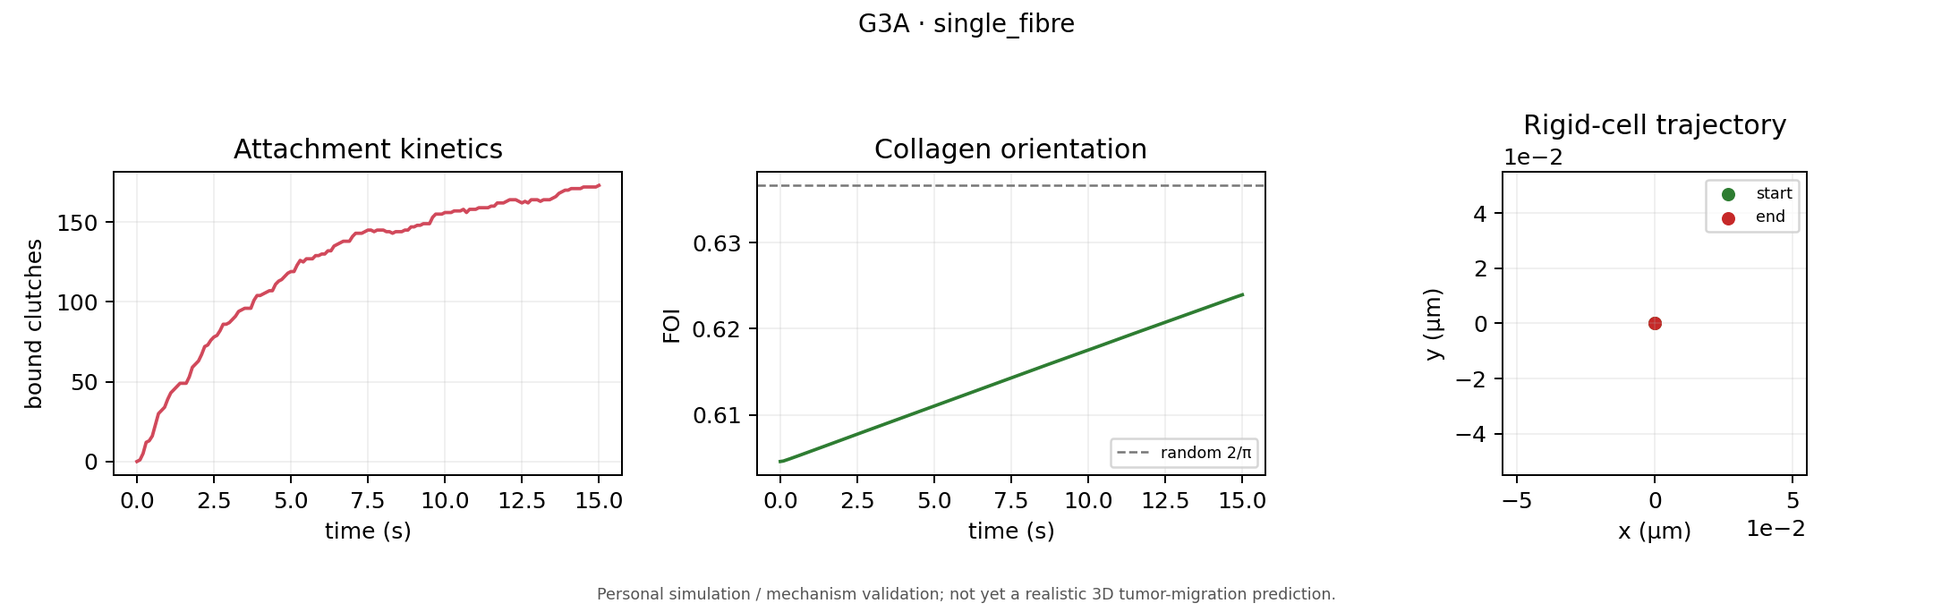
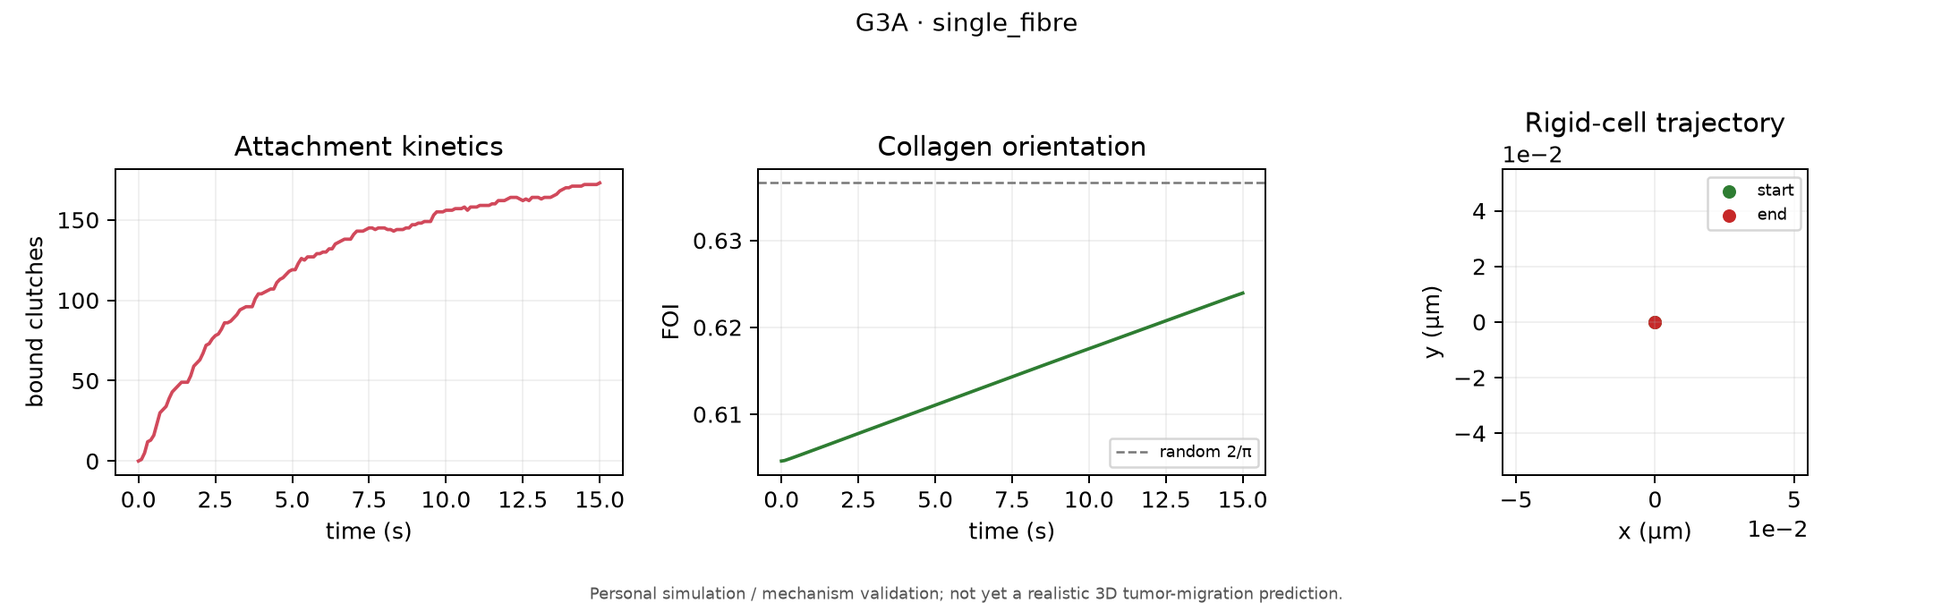
docs: align G3 labs with conservative contact

diff --git a/docs/model-notebook-data.js b/docs/model-notebook-data.js
@@ -16,7 +16,8 @@ const PAPERS={
   adebowale:{title:'Adebowale et al. (2021) · stress relaxation and migration',href:'https://doi.org/10.1038/s41563-021-00981-w'},
   carey:{title:'Carey et al. (2016) · local ECM alignment directs protrusions and migration',href:'https://doi.org/10.1039/C6IB00030D'},
   nam:{title:'Nam et al. (2016) · viscoplastic matrix remodeling by cells',href:'https://doi.org/10.1016/j.bpj.2016.10.002'},
-  saras:{title:'Saraswathibhatla et al. (2025) · collagen alignment and breast-cancer invasion',href:'https://doi.org/10.1101/2025.01.31.635980'}
+  saras:{title:'Saraswathibhatla et al. (2025) · collagen alignment and breast-cancer invasion',href:'https://doi.org/10.1101/2025.01.31.635980'},
+  runser:{title:'Runser, Vetter & Iber (2024) · signed-distance cell contact mechanics',href:'https://doi.org/10.1038/s43588-024-00620-9'}
 };
 const paper=(key,support,boundary)=>({...PAPERS[key],support,boundary});
 
@@ -361,8 +362,13 @@ const G3A_EQUATIONS=[
   {title:'Elastic bead–spring collagen and overdamped motion',equations:[
     {name:'Axial bond energy',tex:T`\[U_s=\frac12\kappa_s\sum_{(i,j)}\left(\|\mathbf r_j-\mathbf r_i\|-\ell_0\right)^2\]`,explain:'Every visible collagen line is a chain of 1 µm-spaced beads joined by Hookean axial bonds.'},
     {name:'Bending energy',tex:T`\[U_b=\frac12\kappa_b\sum_{(i,j,k)}(\theta_{ijk}-\theta_0)^2\]`,explain:'The angle penalty resists changes in fibre curvature; the current minimal fixture uses a straight rest angle.'},
-    {name:'Overdamped bead balance',tex:T`\[\zeta_b\dot{\mathbf r}_i=\mathbf F_i^{stretch}+\mathbf F_i^{bend}+\mathbf F_i^{clutch}\]`,explain:'Collagen bead velocity follows the instantaneous elastic plus clutch force. There is no SLS element and no inertia.',key:true},
+    {name:'Overdamped bead balance',tex:T`\[\zeta_b\dot{\mathbf r}_i=\mathbf F_i^{stretch}+\mathbf F_i^{bend}+\mathbf F_i^{clutch}+\mathbf F_i^{contact}\]`,explain:'Collagen bead velocity follows the instantaneous elastic, clutch and one-sided cell-contact forces. There is no SLS element and no inertia.',key:true},
     {name:'Explicit substep',tex:T`\[\mathbf r_i^{n+1}=\mathbf r_i^n+\frac{\Delta t_{ECM}}{\zeta_b}\mathbf F_i^n,\qquad \Delta t_{ECM}=\Delta t/N_{sub}\]`,explain:'Two ECM substeps satisfy the stated explicit bead-chain stability bound; fixed fixture endpoints are then restored.'}
+  ]},
+  {title:'Conservative one-sided cell–collagen contact',equations:[
+    {name:'Penetration depth',tex:T`\[d_i=\|\mathbf r_i-\mathbf r_c\|,\qquad \delta_i=\max(0,R-d_i)\]`,explain:'Contact activates only when a zero-radius collagen material node enters the nominal rigid circle.'},
+    {name:'Contact potential and bead force',tex:T`\[U_i^{contact}=\frac12k_{contact}\delta_i^2,\qquad \mathbf F_i^{contact}=k_{contact}\delta_i\frac{\mathbf r_i-\mathbf r_c}{d_i}\]`,explain:'The negative gradient of a one-sided harmonic potential pushes an overlapping bead radially outward.',key:true},
+    {name:'Cell contact reaction',tex:T`\[\mathbf F_{cell}^{contact}=-\sum_i\mathbf F_i^{contact},\qquad \tau_{cell}^{contact}=0\]`,explain:'The rigid cell receives the exact opposite force. Ideal central contact produces zero torque about a circular cell center.',key:true}
   ]},
   {title:'Spatial material-point clutch',equations:[
     {name:'Bound collagen material point',tex:T`\[\mathbf p_c(t)=(1-\alpha_c)\mathbf r_{i_c}(t)+\alpha_c\mathbf r_{j_c}(t)\]`,explain:'On binding, a clutch stores fibre ID, segment ID and α. Those material identifiers remain fixed until rupture.',key:true},
@@ -392,10 +398,10 @@ NOTEBOOK_MODELS['g3-a']={
   simulation:{src:'g3-demo.html?stage=g3a',note:'The animation shows one fixed cell, one bead chain, active sector, bound material points and clutch spokes. It is a 15 s mechanism test, not migration.'},
   source:REPO+'src/g3/mechanics.py',equationGroups:G3A_EQUATIONS,
   algorithm:['Build a 40 µm collagen fibre from 41 beads and fix its two endpoints.','Place a rigid 10 µm-radius cell at the origin and prescribe one protrusion only for this diagnostic stage.','Assign the 200-clutch pool to that sector and propose binding with the continuous nearest-segment test.','For every bound clutch, reconstruct its evolving material point from the stored segment and α.','Advance actin displacement by the motor force–velocity law and break clutches with the Bell hazard.','Project every vector point force onto nearby beads of the same fibre with normalized Gaussian weights and a moment correction.','Advance elastic collagen beads by the overdamped equation while keeping the cell fixed.','Check material identity, no-fibre traction, force/torque conservation, rotation covariance and pull-induced FOI change.'],
-  papers:[paper('lee','Supports a bead–spring representation of collagen fibres and crosslinked network mechanics.','The present one-fibre fixture or its clutch parameters as a tissue fit.'),paper('bell','Supports exponential force-dependent slip-bond rupture.','Catch-bond integrin behavior or this exact force scale for every cell type.'),paper('adebowale','Provides the active one-module motor/clutch counts, rates, force, stiffness and actin-speed scales used in G3.','A calibrated breast-tumor-cell collagen model; the paper studied a different experimental system.'),paper('saras','Provides the axial/bending bead-fibre parameter scale and 1 µm discretization used here.','That this few-fibre 2D fixture reproduces a 3D tumor microenvironment.')],
-  results:[{name:'Material-point test',value:'A clutch stores (fiber_id, segment_id, α) until Bell unbinding and reconstructs that material point as beads move.'},{name:'15 s demonstration',value:'FOI 0.6046 → 0.6239; maximum bead displacement 0.395 µm; maximum 173/200 bound clutches.'},{name:'Conservation',value:'Saved force/torque residuals are below 4×10⁻¹⁶ / 9×10⁻¹⁸ relative.'},{name:'Cell state',value:'Exactly fixed; the trajectory panel should remain at the origin.'}],
-  limitation:{heading:'Current limitation · G3A deliberately has no emergent direction',text:'The single active sector is prescribed only to test spatial mechanics. It does not show a cell choosing a collagen-guided path, and a long pull eventually reaches the rigid-cell overlap guard.',items:['One straight fibre and fixed endpoints.','No crosslinks, excluded-volume contact, pore traversal or 3D topology.','Cell fixed; no competing protrusions.','Elastic bonds only; no SLS or plasticity.'],leadsTo:'G3B removes the prescribed diagnostic sector and lets 24 initially unbiased surface sectors compete using only local collagen geometry and traction success.'},
-  talk:{script:'“G3A is not a migration claim. I prescribe one protrusion only as a unit test, bind every clutch to a continuous segment coordinate, and then spread its vector force locally along that same bead fibre. The force and first moment are conserved. This proves the attachment mechanics before I ask collagen to choose a direction.”',assumptions:['Rigid circular cell with radius 10 µm.','One 40 µm fibre and a 2 µm capture/projection scale.','Tension-only linear clutches with Bell slip-bond rupture.'],nextChecks:['Add conservative cell–collagen contact before long random-fixture runs.','Test resolution and Gaussian-width convergence.','Compare clutch/collagen deformation with spatial experimental measurements.']}
+  papers:[paper('lee','Supports a bead–spring representation of collagen fibres and crosslinked network mechanics.','The present one-fibre fixture or its clutch parameters as a tissue fit.'),paper('bell','Supports exponential force-dependent slip-bond rupture.','Catch-bond integrin behavior or this exact force scale for every cell type.'),paper('adebowale','Provides the active one-module motor/clutch counts, rates, force, stiffness and actin-speed scales used in G3.','A calibrated breast-tumor-cell collagen model; the paper studied a different experimental system.'),paper('saras','Provides the axial/bending bead-fibre parameter scale and 1 µm discretization used here.','That this few-fibre 2D fixture reproduces a 3D tumor microenvironment.'),paper('runser','Supports the repulsive signed-distance branch used for the conservative contact form.','The provisional 4×10⁻³ N/m stiffness, zero bead radius or a deformable cell cortex.')],
+  results:[{name:'Material-point test',value:'A clutch stores (fiber_id, segment_id, α) until Bell unbinding and reconstructs that material point as beads move.'},{name:'15 s demonstration',value:'FOI 0.6046 → 0.6239; maximum bead displacement 0.395 µm; maximum 173/200 bound clutches.'},{name:'Conservation',value:'Saved clutch force/torque residuals are below 4×10⁻¹⁶ / 9×10⁻¹⁸ relative; contact action–reaction is also unit-tested.'},{name:'Cell state',value:'Exactly fixed; the trajectory panel should remain at the origin.'}],
+  limitation:{heading:'Current limitation · G3A deliberately has no emergent direction',text:'The single active sector is prescribed only to test spatial mechanics. It does not show a cell choosing a collagen-guided path. Conservative contact is now active, but is frictionless, non-adhesive and uses zero-radius bead nodes.',items:['One straight fibre and fixed endpoints.','No crosslinks, pore traversal or 3D topology.','Cell fixed; no competing protrusions.','Elastic bonds only; no SLS or plasticity.'],leadsTo:'G3B removes the prescribed diagnostic sector and lets 24 initially unbiased surface sectors compete using only local collagen geometry and traction success.'},
+  talk:{script:'“G3A is not a migration claim. I prescribe one protrusion only as a unit test, bind every clutch to a continuous segment coordinate, and then spread its vector force locally along that same bead fibre. The force and first moment are conserved. A separate conservative contact potential prevents the rigid cell from being mechanically permeable. This proves the attachment mechanics before I ask collagen to choose a direction.”',assumptions:['Rigid circular cell with radius 10 µm.','One 40 µm fibre and a 2 µm capture/projection scale.','Tension-only linear clutches with Bell slip-bond rupture.','Frictionless one-sided contact with provisional stiffness equal to the active fibre spring scale.'],nextChecks:['Complete the contact-stiffness sensitivity and full G3B recalibration.','Test resolution and Gaussian-width convergence.','Compare clutch/collagen deformation with spatial experimental measurements.']}
 };
 
 NOTEBOOK_MODELS['g3-b']={
@@ -426,9 +432,9 @@ NOTEBOOK_MODELS['g3-b']={
   ],
   algorithm:['Initialize two active sectors by uniform sampling from 24 directions; do not define left/right or +x.','At each geometry update, compute continuous collagen-segment midpoints and tangents around every cell-surface probe.','Compute availability, nematic alignment and the combined geometry score for all sectors.','Assign the shared clutch pool to the current active sectors and run the inherited G3A attachment/loading/rupture mechanics.','Smooth each active sector’s bound-fraction × traction success.','Sample protrusion loss from the geometry- and traction-dependent hazard; sample replacement from the geometry score softmax.','Keep the cell center and angle fixed while collagen beads deform overdamped.','Compare balanced, isotropic, aligned, 30°-rotated aligned, feedback-off and no-fibre ensembles.'],
   papers:[paper('carey','Directly motivates the causal hypothesis that local collagen alignment biases protrusion frequency, length/persistence and migration through FAK/Rac1 signaling.','The exact exponential hazard, 24 sectors or β values used here.'),paper('adebowale','Supports coupling filopodia-like motor-clutch success to migration behavior and supplies the clutch scales.','That collagen guidance in this G3 breast-tumor-cell abstraction has been quantitatively fitted.'),paper('lee','Supports representing local collagen direction with bead-connected fibre segments.','This few-fibre aligned fixture as a realistic collagen density or pore distribution.'),paper('saras','Supports breast-cancer/collagen alignment as a relevant invasion mechanism and the chosen elastic fibre scale.','The present fixed-cell sector law or its provisional feedback parameters.')],
-  results:[{name:'Aligned collagen',value:'20-seed calibration mean nematic guidance 0.726; bootstrap 95% CI 0.626–0.819.'},{name:'No hidden sign preference',value:'Aligned trials split 55/45 between the two equivalent directions of the collagen axis.'},{name:'Rotation control',value:'Rotating collagen by 30° rotated the inferred protrusion axis with 3.03° covariance error.'},{name:'Feedback ablation',value:'Mean guidance fell from 0.726 to −0.033 when geometry/traction feedback was disabled.'},{name:'Important failed gate',value:'7/20 isotropic-random runs entered rigid-cell geometry overlap; the biased 13-run valid subset must not be interpreted.'}],
-  limitation:{heading:'Current limitation · the aligned mechanism works, but G3B is not yet cleared',text:'The positive aligned and rotation controls show the intended collagen-guidance mechanism. However, random local geometries can be pulled through the rigid cell because G3 has no cell–collagen excluded-volume force. That structural failure blocks final validation.',items:['Isotropic all-runs-valid gate failed: 13/20 valid.','Residual polar-ratio <0.1 is a preregistered 100-seed gate and is not established by 20 calibration seeds.','Only eight synthetic 2D fibres; no realistic density, pores, crosslinks or 3D topology.','Feedback lifetime and β values are provisional assumptions.'],leadsTo:'First add and calibrate an explicit conservative cell–collagen contact law (or deliberately restrict the fixture), rerun all G3B calibration controls, and only then treat G3C as a validation candidate.'},
-  talk:{script:'“G3B removes the old ψ=0.65. I start with two uniformly chosen sectors. Each sector measures nearby collagen availability and the squared tangent alignment, then clutch binding and force reinforce persistence. The output axis follows aligned collagen and rotates with a rotated matrix, while feedback ablation removes the effect. But random fibres can penetrate the rigid cell, so I stop at a failed calibration gate rather than claim validated migration.”',assumptions:['Two active protrusions among 24 sectors.','Geometry and traction enter an exponential lifetime rule with βG=βq=2.','Eight-fibre 2D fixtures isolate direction control but do not reproduce collagen concentration.'],nextChecks:['Implement conservative cell–collagen excluded volume as a separately documented force.','Rerun seeds 0–19 before opening untouched seeds 1000–1099.','Sweep only preregistered feedback lifetime/strength parameters.','Later compare predicted protrusion-angle distributions to Carey-type imaging.']}
+  results:[{name:'Aligned collagen · preserved contact-free calibration',value:'20-seed mean nematic guidance 0.726; bootstrap 95% CI 0.626–0.819.'},{name:'No hidden sign preference',value:'Aligned trials split 55/45 between the two equivalent directions of the collagen axis.'},{name:'Rotation control',value:'Rotating collagen by 30° rotated the inferred protrusion axis with 3.03° covariance error.'},{name:'Feedback ablation',value:'Mean guidance fell from 0.726 to −0.033 when geometry/traction feedback was disabled.'},{name:'Preserved failed gate',value:'The contact-free run had 7/20 isotropic overlaps; its 13-run valid subset remains uninterpretable.'},{name:'New contact diagnostic',value:'Previously failing isotropic seed 2 completed 60 s with contact enabled; maximum penetration 0.00375 µm. This is not the full recalibration.'}],
+  limitation:{heading:'Current limitation · contact is implemented, but G3B is not yet recalibrated',text:'The aligned controls support the intended guidance mechanism and the conservative contact law fixes the targeted 60 s seed-2 diagnostic. The original contact-free calibration remains a preserved negative result; all six conditions must be rerun from clean checkpoints before the stage can pass.',items:['The active contact-enabled configuration has not completed the full 20-seed × six-condition 600 s recalibration.','Residual polar-ratio <0.1 is a preregistered 100-seed gate and is not established by 20 calibration seeds.','Only eight synthetic 2D fibres; no realistic density, pores, crosslinks or 3D topology.','Contact stiffness, feedback lifetime and β values are provisional assumptions.'],leadsTo:'Run phase-locked contact-enabled calibration batches in a new output directory, include the 2/4/8×10⁻³ N/m contact-stiffness sensitivity, and open final validation only if every gate passes.'},
+  talk:{script:'“G3B removes the old polarization_probability=0.65. I start with two uniformly chosen sectors. Each sector measures nearby collagen availability and squared tangent alignment, then clutch binding and force reinforce persistence. The preserved contact-free data show aligned guidance and rotation covariance, but also seven isotropic overlaps. I have now added a conservative repulsive contact law; the targeted failing seed passes 60 seconds, but I still require the complete fresh calibration before claiming the stage is cleared.”',assumptions:['Two active protrusions among 24 sectors.','Geometry and traction enter an exponential lifetime rule with βG=βq=2.','Eight-fibre 2D fixtures isolate direction control but do not reproduce collagen concentration.','Contact is frictionless/non-adhesive and its stiffness is provisional.'],nextChecks:['Run all six contact-enabled calibration conditions from clean phase-locked batches.','Complete the contact-stiffness sensitivity before freezing configuration.','Open seeds 1000–1099 only after every calibration gate passes.','Later compare predicted protrusion-angle distributions to Carey-type imaging.']}
 };
 
 NOTEBOOK_MODELS['g3-c']={
@@ -454,6 +460,6 @@ NOTEBOOK_MODELS['g3-c']={
   algorithm:['Run the complete G3B unbiased sector and spatial clutch loop.','Sum the equal-and-opposite reaction vectors and their moments about the current cell center.','Divide by translational and rotational drag to obtain instantaneous velocity and angular velocity.','Update the cell center and body angle in 2D; move every sector and motor-side anchor with the rigid body.','Recompute nearby collagen geometry and attachment locations as cell and fibres evolve.','Record cell path, body rotation, traction, torque, FOI and conservation residuals.','Test no-fibre, symmetric/asymmetric, mirrored, aligned/rotated and drag controls.','Do not start formal G3C validation until every G3B calibration gate passes.'],
   papers:[paper('carey','Supports the idea that aligned collagen guides protrusion dynamics and migration direction, motivating the G3B→G3C causal chain.','This rigid-body reaction law as a quantitative model of whole-cell motility.'),paper('bell','Supports the inherited stochastic force-dependent clutch detachment.','Cell translation/rotation drag or realistic integrin kinetics in 3D collagen.'),paper('adebowale','Supports motor-clutch-mediated filopodial force generation and supplies the microscopic parameter scale.','The provisional whole-cell drag or the current tiny G3C speed.'),paper('saras','Supports coupling breast-cancer movement and collagen alignment as a mechanistic research question.','Formal validation of this 2D few-fibre trajectory model.')],
   results:[{name:'Asymmetric smoke run',value:'30 s net displacement 0.00187 µm and final rotation 6.68×10⁻⁵ rad; nonzero but intentionally not display-amplified.'},{name:'No prescribed direction',value:'No v₀ self-propulsion, fixed +x force, one-axis constraint or polarity_probability=0.65 exists in src/g3.'},{name:'Formal evidence status',value:'G3C campaign is halted because upstream G3B isotropic geometry overlap has not been resolved.'},{name:'Retained audit data',value:'173 premature partial G3C calibration records are stored but explicitly excluded from evidence.'}],
-  limitation:{heading:'Current limitation · reaction mechanics exist, but migration is not validated',text:'G3C demonstrates that spatial clutches can generate a 2D reaction force and torque. Its present displacement is tiny, and the formal campaign correctly stops at the upstream G3B geometry gate.',items:['Rigid cell has no deformation, cortex, nucleus or pore constraint.','No excluded-volume interaction prevents collagen penetration.','No 3D network, realistic collagen density, crosslink turnover, proteolysis or plasticity.','Cell drag is provisional; absolute speed is not a prediction.'],leadsTo:'After the G3B contact/geometry correction passes calibration and untouched validation, rerun G3C controls and only then consider a deformable cell, nucleus/pore passage and 3D collagen as a later generation.'},
+  limitation:{heading:'Current limitation · reaction mechanics exist, but migration is not validated',text:'G3C demonstrates that spatial clutches can generate a 2D reaction force and torque, and the active engine now includes equal-and-opposite conservative contact reactions. Its present displacement is tiny, and the formal campaign correctly stops until contact-enabled G3B recalibration passes.',items:['Rigid cell has no deformation, cortex, nucleus or pore constraint.','Contact is frictionless, non-adhesive and not fitted to cortex mechanics.','No 3D network, realistic collagen density, crosslink turnover, proteolysis or plasticity.','Cell drag is provisional; absolute speed is not a prediction.'],leadsTo:'After contact-enabled G3B calibration and untouched validation pass, rerun G3C controls and only then consider a deformable cell, nucleus/pore passage and 3D collagen as a later generation.'},
   talk:{script:'“G3C adds no migration velocity. It applies the opposite of every spatial clutch force to the cell, sums the torque, and divides by translational and rotational drag. Therefore collagen first biases which protrusions survive, those clutches generate the force pattern, and only then does the cell move. The code contains no ψ=0.65. The current run proves the reaction mechanism, not realistic tumor migration, and formal G3C validation remains halted behind the G3B overlap gate.”',assumptions:['Rigid circular 2D cell.','Linear translational drag and ζr=ζcR² rotational closure.','The same provisional protrusion feedback used in G3B.'],nextChecks:['Resolve G3B cell–collagen overlap before any G3C inference.','Validate rotated/mirrored trajectory distributions with untouched seeds.','Calibrate drag to both cell speed and traction data.','Add deformation/nuclear/pore mechanics in a new generation rather than hiding them in G3C.']}
 };

diff --git a/docs/index.html b/docs/index.html
@@ -27,9 +27,9 @@
 
 <section class="generation"><div class="generationHead"><div class="number" style="color:#5875c5">G3</div><div><h2>Emergent collagen guidance — no prescribed polarization</h2><p>G3 branches from the G2 limitation. It replaces <code>polarity_probability=0.65</code> with spatial clutches and 24 initially unbiased cell-surface sectors. Local collagen availability and orientation influence which protrusions persist; only G3C releases the rigid cell to move and rotate from clutch reactions.</p></div></div><div class="cards">
 <article class="card"><div class="tag" style="color:#5875c5">Mechanism gate passed</div><h3>G3A · spatial clutches</h3><p class="purpose"><b>Purpose:</b> bind each clutch to one evolving collagen-segment material point and conserve vector force/torque under local Gaussian bead projection.</p><ul><li>fixed cell + one diagnostic protrusion</li><li>visible bead chains and clutch spokes</li><li>force/torque residuals below gates</li></ul><a href="model-notebook.html?model=g3-a">Purpose + animation + all equations</a></article>
-<article class="card current"><div class="tag">Collagen chooses the axis</div><h3>G3B · guided protrusions</h3><p class="purpose"><b>Purpose:</b> let aligned collagen stabilize initially unbiased protrusions through geometry and traction feedback—while the cell stays fixed.</p><ul><li>aligned guidance 0.726</li><li>55/45 nematic sign split</li><li>30° matrix rotation → 3.03° error</li></ul><p class="however-mini"><b>Blocked:</b> 7/20 isotropic runs cross the rigid-cell overlap guard.</p><a href="model-notebook.html?model=g3-b">Mechanism + controls + failed gate</a></article>
+<article class="card current"><div class="tag">Collagen chooses the axis</div><h3>G3B · guided protrusions</h3><p class="purpose"><b>Purpose:</b> let aligned collagen stabilize initially unbiased protrusions through geometry and traction feedback—while the cell stays fixed.</p><ul><li>aligned guidance 0.726</li><li>55/45 nematic sign split</li><li>30° matrix rotation → 3.03° error</li></ul><p class="however-mini"><b>Recalibration pending:</b> contact is now implemented after 7/20 old isotropic runs overlapped the cell.</p><a href="model-notebook.html?model=g3-b">Mechanism + controls + stage gate</a></article>
 <article class="card"><div class="tag" style="color:var(--purple)">Mechanism demo · gated</div><h3>G3C · 2D cell motion</h3><p class="purpose"><b>Purpose:</b> translate and rotate the rigid cell only from equal-and-opposite spatial clutch reactions.</p><ul><li>no prescribed velocity or +x force</li><li>no polarization-probability input</li><li>full x/y translation + rotation</li></ul><p class="however-mini"><b>Not yet validated:</b> formal G3C work is halted until G3B geometry passes.</p><a href="model-notebook.html?model=g3-c">Animation + reactions + evidence boundary</a></article>
-</div><div class="transition"><h3>What G3 changes—and what it does not claim</h3><ul><li><b>Changed:</b> collagen geometry now precedes protrusion persistence; the reported polarity vector is an output observable, never a directional input.</li><li><b>Preserved:</b> G1 and G2 remain frozen and readable as the reasoning history that led here.</li><li><b>Not yet present:</b> conservative cell–collagen contact, realistic 3D density/pores, deformable cell/nucleus, proteolysis, transient crosslinks, SLS or plasticity.</li></ul></div>
+</div><div class="transition"><h3>What G3 changes—and what it does not claim</h3><ul><li><b>Changed:</b> collagen geometry now precedes protrusion persistence; the reported polarity vector is an output observable, never a directional input.</li><li><b>Contact correction:</b> a conservative one-sided cell–collagen potential is implemented; the targeted failed seed passes 60 s, but the full clean calibration is still pending.</li><li><b>Preserved:</b> G1 and G2 remain frozen and readable as the reasoning history that led here.</li><li><b>Not yet present:</b> realistic 3D density/pores, deformable cell/nucleus, frictional/adhesive contact, proteolysis, transient crosslinks, SLS or plasticity.</li></ul></div>
 <div class="visualKey"><div><b>Blue-grey beads + lines</b><span>elastic collagen bead chains</span></div><div><b>Red spokes</b><span>bound spatial clutches</span></div><div><b>Purple/green surface points</b><span>local geometry score</span></div><div><b>Red rings + blue path</b><span>active protrusions and reaction-driven cell path</span></div></div></section>
 </main>
 <footer>G1 is frozen by tag · G2 is the corrected baseline · G3 adds emergent collagen guidance while preserving the complete evidence and limitation record.</footer>

diff --git a/docs/g3-demo.js b/docs/g3-demo.js
@@ -7,9 +7,9 @@
       label:'Fixed-cell single-fibre attachment test',
       watch:'A collagen fibre is a connected bead chain. Red spokes end at bound material points; the attachment follows the same segment coordinate as beads deform.',
       cell:'Fixed center and fixed angle. The single active sector is prescribed only to isolate clutch mechanics.',
-      evidence:'Material identity, local force projection, force/torque conservation and rotation-covariance gates pass.',
+      evidence:'Material identity, local force projection, force/torque conservation and rotation-covariance gates pass. The active engine also includes conservative cell contact.',
       metrics:'15 s · FOI 0.6046 → 0.6239 · maximum bead displacement 0.395 µm · maximum 173/200 bound clutches.',
-      boundary:'This does not test emergent direction selection or migration. Extending the pull eventually reaches the no-overlap guard.'
+      boundary:'This does not test emergent direction selection or migration. Contact is frictionless, non-adhesive and provisionally stiff; the saved GIF is a short attachment-mechanism run.'
     },
     g3b:{
       title:'G3B · collagen-guided protrusions',
@@ -18,9 +18,9 @@
       label:'Fixed-cell aligned-collagen guidance test',
       watch:'The two red active-sector rings turn over among 24 initially unbiased probes. Larger/brighter sector points mean more nearby collagen aligned with that outward direction.',
       cell:'Fixed center and fixed angle so protrusion direction is not confused with cell translation.',
-      evidence:'Aligned guidance, ± director symmetry, 30° rotation covariance, feedback ablation and no-fibre controls pass. The overall calibration gate remains blocked.',
+      evidence:'The preserved contact-free run supports aligned guidance, ± director symmetry, 30° rotation covariance, feedback ablation and no-fibre controls. Active code now adds conservative contact, but the full fresh calibration is pending.',
       metrics:'Aligned 20-seed mean nematic guidance 0.726 (95% CI 0.626–0.819) · 55/45 axis-sign split · 3.03° rotation error.',
-      boundary:'Seven of twenty random-isotropic runs pulled collagen inside the rigid cell. Until an explicit contact law is added and all controls are rerun, G3B is not formally validated.'
+      boundary:'Seven of twenty old contact-free random-isotropic runs pulled collagen inside the rigid cell. A conservative contact law now fixes the targeted 60 s seed-2 diagnostic, but all six 600 s conditions must be rerun before G3B is cleared.'
     },
     g3c:{
       title:'G3C · reaction-driven translation and rotation',
@@ -30,7 +30,7 @@
       label:'Released rigid-cell force/torque smoke test',
       watch:'Spatial clutch vectors create an equal-and-opposite blue reaction arrow and torque. The blue trajectory is the resulting cell path, not a prescribed velocity.',
       cell:'Both x/y translation and body rotation are released under linear overdamped drag.',
-      evidence:'The reaction mechanism and hidden-drive audit exist, but the formal G3C campaign is halted behind the failed upstream G3B geometry gate.',
+      evidence:'The reaction mechanism, conservative contact reaction and hidden-drive audit exist, but formal G3C remains halted until the contact-enabled G3B recalibration passes.',
       metrics:'30 s asymmetric fixture · net displacement 0.00187 µm · final rotation 6.68×10⁻⁵ rad. Values are not display-amplified.',
       boundary:'This tiny motion is a mechanism demonstration, not realistic tumor migration. The partial 173-run calibration data are retained for audit and excluded from evidence.'
     }

diff --git a/references/README.md b/references/README.md
@@ -22,7 +22,7 @@ should only be copied into the repository when redistribution rights are clear.
 | G2 V2 | R1–R4, R10 | physical fibre scale, connected transmission, compression softening and spatial response metrics |
 | G2 V3 | R5–R9 | clutch law, motor feedback, polarity, migration speed and future force calibration |
 | G2 V4 | R1, R2, R11, R12 | new-contact weak-link hypothesis, load–unload control and alternative sliding/merging mechanism |
-| G3 A–C | R1, R5, R13, R15–R17 | bead fibres, Bell kinetics, motor-clutch scales, protrusion feedback, FOI/κ diagnostics and elastic parameter scales |
+| G3 A–C | R1, R5, R13, R15–R18 | bead fibres, Bell kinetics, motor-clutch scales, protrusion feedback, FOI/κ diagnostics, elastic parameter scales and conservative cell contact |
 | Separate future U937 track | R14 | outward protrusive path opening; deliberately not mixed into G2 pulling |
 
 ## Bibliography
@@ -86,6 +86,10 @@ should only be copied into the repository when redistribution rights are clear.
 - **R17 — Saraswathibhatla et al. (2025).** “Swirling motion of breast cancer
   cells radially aligns collagen fibers to enable collective invasion.” *bioRxiv* preprint.
   [doi:10.1101/2025.01.31.635980](https://doi.org/10.1101/2025.01.31.635980)
+- **R18 — Runser, Vetter & Iber (2024).** “SimuCell3D: Three-dimensional
+  simulation of tissue mechanics with cell polarization.” *Nature Computational Science*
+  4:299–309.
+  [doi:10.1038/s43588-024-00620-9](https://doi.org/10.1038/s43588-024-00620-9)
 
 ## Evidence boundary
 

diff --git a/README.md b/README.md
@@ -122,8 +122,11 @@ G3 removes G2 V3's `polarity_probability=0.65`. It does not claim realistic 3D t
 migration: pores, nucleus, deformable cortex, MMP, collagen-concentration calibration, SLS,
 plasticity, EMT, and cell-cell interactions remain outside its scope. G3A mechanism gates pass.
 The 20-seed G3B calibration supports aligned collagen guidance and rotation covariance, but the
-stage remains blocked because 7/20 isotropic runs crossed the rigid-cell overlap guard. The
-untouched 100-seed final ensemble and formal G3C validation have therefore not been opened.
+preserved contact-free stage remains blocked because 7/20 isotropic runs crossed the rigid-cell
+overlap guard. The active development configuration now includes an equal-and-opposite
+conservative cell–collagen contact law; the targeted failing seed completes 60 s with 0.00375 µm
+maximum penetration. All six contact-enabled calibration conditions still need a clean rerun.
+The untouched 100-seed final ensemble and formal G3C validation have therefore not been opened.
 
 The public notebook now includes separate G3A, G3B and G3C pages with precomputed animations,
 all implemented equations, paper support, assumptions, results and stage-specific limitations:

diff --git a/generations/g3_emergent_guidance/README.md b/generations/g3_emergent_guidance/README.md
@@ -71,9 +71,11 @@ py -3 -m unittest discover -s generations/g2_corrected/v4_contact_plasticity/tes
 Current saved outputs demonstrate implementation mechanisms, not final emergent-guidance
 validation. The 20-seed, 600-s G3B calibration has been run: aligned guidance, nematic sign
 symmetry, 30-degree rotation covariance, feedback ablation and the no-fibre control support the
-intended mechanism. The overall stage gate nevertheless fails because 7/20 isotropic-random
-runs crossed the rigid-cell overlap guard. The untouched 100-seed final ensemble has not been
-opened, and formal G3C validation is halted until G3B is corrected and recalibrated.
+intended mechanism. The preserved contact-free stage gate nevertheless fails because 7/20
+isotropic-random runs crossed the rigid-cell overlap guard. Conservative contact is now
+implemented and passes the targeted 60 s failing-seed diagnostic, but the full six-condition
+calibration must be rerun from clean checkpoints. The untouched 100-seed final ensemble has
+not been opened, and formal G3C validation remains halted until contact-enabled G3B passes.
 
 The website keeps the stages separate so their causal roles are not confused:
 

diff --git a/ASSUMPTIONS.md b/ASSUMPTIONS.md
@@ -39,6 +39,7 @@ Generation 2 baseline.
 | G3-A7 | G3C | Rigid circular cell, reaction-only translation/rotation | isolates mechanical guidance without hidden self-propulsion | deformable cell, nucleus and pore confinement are deferred |
 | G3-A8 | G3C | 300 nN·s/µm translational drag and dimensional rotational drag | calibrated timescale closure, not an independent prediction | report direction/symmetry before speed; sweep drag |
 | G3-A9 | all | Permanent elastic ECM; no SLS or irreversible remodeling | isolates guidance before material memory | report unresolved recovery as unresolved, not plasticity |
+| G3-A10 | G3A–C | One-sided conservative bead–cell contact with `k_contact=4×10⁻³ N/m` | Runser et al. 2024 supports the signed-distance repulsive form; required after the preserved overlap failure | complete 2/4/8×10⁻³ N/m sensitivity and all-condition recalibration; add cortex/fibre geometry later |
 
 Full values and provenance are in [`docs/parameter_provenance.md`](docs/parameter_provenance.md).
 

diff --git a/CITATIONS.md b/CITATIONS.md
@@ -129,3 +129,11 @@ coarse-grained defaults into a fit; assumptions remain explicit in
     - Provides G3's bead spacing, elastic stiffness and bending coefficient scales.
     - Its annular spheroid geometry and full-density network are later validation/scale-up
       targets, not features of the current eight-fibre fixtures.
+
+18. **Runser, Vetter & Iber (2024), “SimuCell3D: Three-dimensional simulation
+    of tissue mechanics with cell polarization.”** Nature Computational Science 4:299–309.
+    [doi:10.1038/s43588-024-00620-9](https://doi.org/10.1038/s43588-024-00620-9)
+    - Supports the repulsive signed-distance branch used for G3's one-sided
+      conservative bead–cell contact potential.
+    - Does not establish the provisional contact stiffness, zero bead radius,
+      frictionless interface or rigid-cell assumption.

diff --git a/figures/g3/README.md b/figures/g3/README.md
@@ -4,6 +4,11 @@ These files are smoke demonstrations of the implemented mechanisms. They are not
 preregistered 100-seed biological validation and must not be presented as realistic 3D tumor
 migration.
 
+The G3A, G3B, G3C and direction-control assets were regenerated after the conservative
+cell--collagen contact law was enabled. These selected fixtures recorded zero active contact,
+so their mechanism metrics match the preserved pre-contact smoke values. Contact behavior is
+demonstrated and gated separately in `docs/design_decisions/D011_cell_collagen_contact.md`.
+
 ## G3A — material-point clutches
 
 - Fixture: one tangential 40 µm fibre, both endpoints fixed; cell fixed.

diff --git a/docs/validation_targets.md b/docs/validation_targets.md
@@ -54,5 +54,5 @@ as `unresolved_recovery`, not plasticity.
 The 20-seed, 600-s G3B calibration has been run. Its aligned, rotated, feedback-off and
 no-fibre controls support the intended collagen-guidance mechanism, but 7/20 isotropic runs
 failed the rigid-cell overlap guard. The complete 100-seed G3B/G3C final ensemble has not been
-opened, and G3C formal validation is halted until the G3B geometry/contact decision is made and
-all G3B calibration gates pass.
+opened, and G3C formal validation is halted until the contact-enabled G3B campaign is rerun from
+clean checkpoints and all calibration gates pass.
